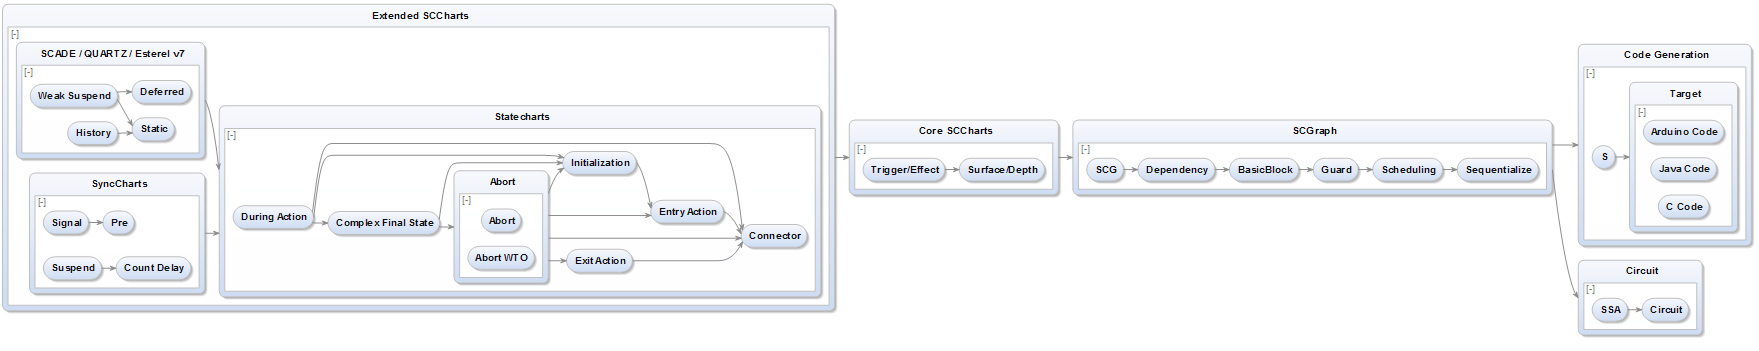
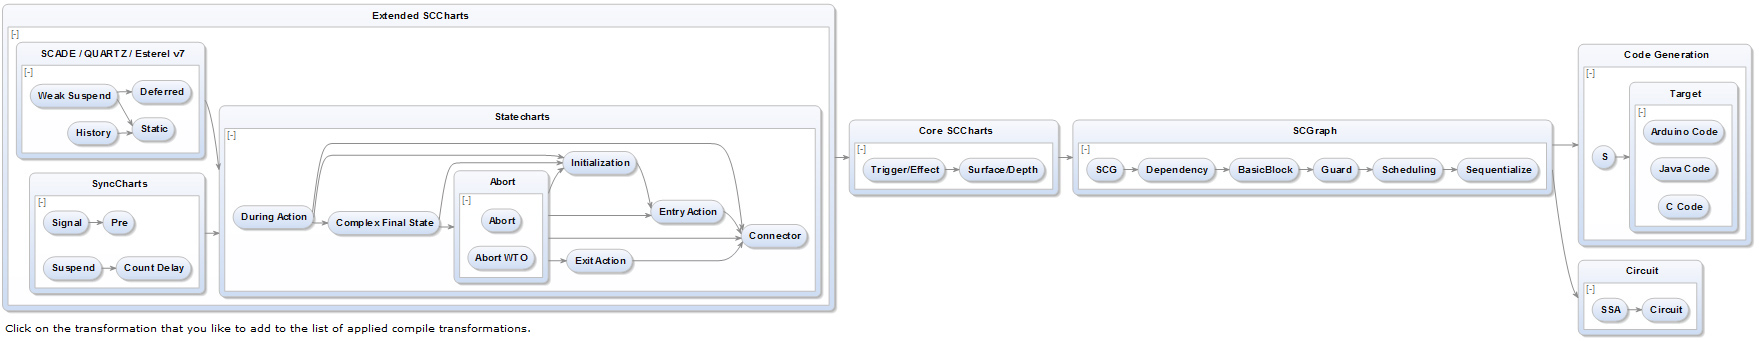
updated  omptimized kico.web another time

diff --git a/plugins/de.cau.cs.kieler.server/client/index.htm b/plugins/de.cau.cs.kieler.server/client/index.htm
@@ -124,7 +124,7 @@ var renderServerURL   = new Array("http://render.sccharts.com", "http://www.scch
 
 
 var windowContent = " <body onBlur='self.focus();'>\
-<div align='left'><img src='http://www.sccharts.com/transformations.jpg' width='1759' height='351' alt='s' border='0' usemap='#Map' />\
+<div align='left'><img src='http://www.sccharts.com/transformations.jpg' width='1759' height='341' alt='s' border='0' usemap='#Map' />\
   <map name='Map' id='Map'>\
     <area shape='rect' coords='1639,117,1733,149' href='javascript:void(0)'  onClick='document.getElementById(\"transformations\").value=\"T_s.arduino\"'/>\
     <area shape='rect' coords='1651,155,1726,187' href='javascript:void(0)'  onClick='document.getElementById(\"transformations\").value=\"T_s.java\"'/>\
@@ -168,9 +168,7 @@ var windowContent = " <body onBlur='self.focus();'>\
     <area shape='rect' coords='28,170,208,196' href='javascript:void(0)' onClick='document.getElementById(\"transformations\").value=\"SYNCCHARTS\"'/>\
   </map>\
   <input name='transformations' type='hidden' id='transformations' size='94' value='' style='width: 100%' />\
-  <br />\
-    <span style='font-family: Verdana, Arial, Helvetica, sans-serif;\
-	font-size: x-small'>Click on the transformation that you like to add to the list of applied compile transformations.</span> </div>\
+  </div>\
 </body>";
 
 var mywindow;
@@ -183,7 +181,7 @@ function openSelectWindow() {
 	}catch(e) {
   }
   transformationsTimer=setInterval(function(){updateTransformations()},500);
-  mywindow = window.open("", "selectWindow", "width=1110,height=395, resizable=yes, toolbar=no, scrollbars=yes, menubar=no, status=no, directories=no");
+  mywindow = window.open("", "selectWindow", "width=1110,height=467, resizable=yes, toolbar=no, scrollbars=yes, menubar=no, status=no, directories=no");
   mywindow.document.write(windowContent);
 
   mywindow.focus();

diff --git a/plugins/de.cau.cs.kieler.server/client/transformations.html b/plugins/de.cau.cs.kieler.server/client/transformations.html
@@ -1,5 +1,5 @@
  <body onBlur='self.focus();'>
-<div align='left'><img src='http://www.sccharts.com/transformations.jpg' alt='s' width="1759" height="351" border='0' usemap='#Map' />
+<div align='left'><img src='http://www.sccharts.com/transformations.jpg' alt='s' width="1759" height="341" border='0' usemap='#Map' />
   <map name='Map' id='Map'>
     <area shape='rect' coords='1639,117,1733,149' href='javascript:void(0)'  onClick='document.getElementById(\"transformations\").value=\"T_s.arduino\"'/>
     <area shape='rect' coords='1651,155,1726,187' href='javascript:void(0)'  onClick='document.getElementById(\"transformations\").value=\"T_s.java\"'/>
@@ -43,6 +43,5 @@
     <area shape='rect' coords='28,170,208,196' href='javascript:void(0)' onClick='document.getElementById(\"transformations\").value=\"SYNCCHARTS\"'/>
   </map>
   <input name='transformations' type='hidden' id='transformations' size='94' value='' style='width: 100%' />
-<span style='font-family: Verdana, Arial, Helvetica, sans-serif;
-	font-size: x-small'>Click on the feature/transformation that you like to add to the list of applied compile transformations. Transformation IDs begin with T_.</span></div>
+</div>
 </body>
